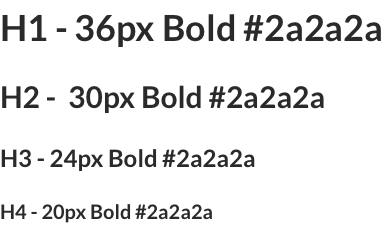
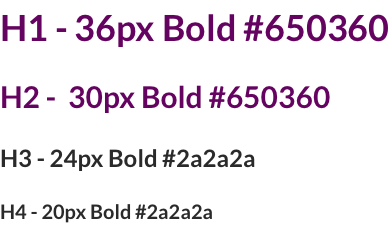
Add files via upload

diff --git a/_metronome/Typography.md b/_metronome/Typography.md
@@ -1,29 +1,24 @@
 # Typography
 
-### Changelog
-
-| Last Updated  | Description |
-| --- | :------ |
-| 08/28/18 | Rewrote page in MD format |
+> **Last Updated:**  
+> 09/10/18 — Updated heading rules, no more scaling for breakpoints  
+> 08/28/18 — Rewrote page in MD format
 
 ---
 
 In 2016 we moved from ~~Helvetica~~ to the friendlier **Lato**.
 /_img/latospecimen.png
-Lato has rounded corners and angled terminals which give it a more friendly look. The i's and j's are dotted with perfectly round circles. Very friendly. Even if you don't notice it, you feel it.
+Lato has rounded corners and angled terminals which give it a more friendly vibe. The i's and j's are dotted with perfectly round circles. Very friendly. Even if you don't notice it, you feel it.
 
 ## Type Scale
-We use a typographic scale so that the number of font sizes across the site feels consistent.
+We use a typographic scale so that the sizes across our site fall into a consolidated list of relative intervals. This way we don't have a lot of different sizes that become difficult to maintain.
 
 | Labels | Authenticated | Body | H4 | H3 | H2 | H1 |
 |:----:|:-----:|:--:|:--:|:--:|:--:|:--:|
 | 11px | 14px | 16px | 20px | 24px | 30px | 36px |
 
-On the small breakpoint, each style scales down one size where possible. 
-
-| Labels | Authenticated | Body | H4 | H3 | H2 | H1 |
-|:----:|:-----:|:--:|:--:|:--:|:--:|:--:|
-| 11px | 14px | 14px | 16px | 20px | 24px | 30px |
+**Update as of 09/10/18**  
+Typography no longer scales down on smaller breakpoints. 
 
 ## Line Height
 The default **line-height is `1.5`** for all typography.
@@ -31,14 +26,15 @@ The default **line-height is `1.5`** for all typography.
 ### Example
 /_img/line-height_example.png
 
-> __Pro Tip:__
+> __Pro Tip:__  
 > To calculate the line-height for any given font size in Sketch, just type __"1.5 * x"__ in the line height box where __"x" = your font size__
 
 ## Headings
-Headings are **`#2a2a2a`** and **`bold`**  
-Headings follow the typographic scale, and **should be nested according to a parent/child relationship** if possible.   
-Headings have a line height of `1.5`  
-Headings have **`10px` of bottom padding**
+Headings follow the typographic scale, and **should be nested according to a parent/child relationship** where possible.   
+
+All headings are bold, with a line height of 1.5 and 10px of bottom padding.
+H1 and H2 are **`#650360`**  
+H3 and H4 are **`#2a2a2a`**
 
 ### Example
 /_img/heading_example.png
@@ -50,10 +46,10 @@ Paragraphs have a line height of `1.5`
 For optimum readability, **the width of a paragraph should not exceed 8 columns**. [^for more information about column layouts, see the grid page.]
 
 ### Example
-/_img/body_example.png
+/_img/bodycopy_example.png
 
 ## Links
-Links are **16px, bold, and `#006899`** and change to `#0079b3` on hover with a 150ms linear transition.  
+Links are **16px, bold, and `#006899`** and change to **`#0079b3`** on hover with a 150ms linear transition.  
 Visited links are styled the same.  
 Links have no underline
 
@@ -77,6 +73,29 @@ Links on dark backgrounds should be the lighter color: `#C1E8FA` in order to mee
 </div>
 <div style="clear:both"></div>
 
+## Titles/Labels
+Use as a label for tables, lists, and forms.  
+A label should be `11px`, `bold`, and should use the `text-transform:uppercase` property.
+If a label flows into more than one line, it should use the standard line height of **`1.5`**, which comes out to **`16.5px`** for an 11px font size.
+
+/_img/titleheading_example.png
+
+
+**Restrictions on length**
+Labels should be **limited to 5 words or less**. 
+/_img/sentencelabel_dont.png
+> **Don't use when** you just need a font size smaller than 14px. If you need something smaller than 14px, submit this for review as an exception.
+
+## Lists
+There are various types of lists that can be used. Each one should have an indent of 20px. If 
+
+### Example
+/_img/list_example.png
+
+**Lists with Titles**
+When listing links in a navigation item, or some other list that needs a label, combine the list style with the label/title style.
+/_img/listheading_example.png 
+
 ## Price and Rate Callouts
 
 Hero banners and cards with price and rate callouts have their own unique style. There are 3 sizes to choose from, and they each have a corresponding size for their accompanying symbol:
@@ -94,8 +113,15 @@ Hero banners and cards with price and rate callouts have their own unique style.
 All symbols follow the same size guidelines, though the positioning may be different.
 /_img/dollarcallout_example.png
 
+**Rate Callout Title**
+Use the title/label style to label the Annual Percentage yield for rate callouts. 
+The stacked 3 columns should be **centered vertically** and use a line-height of **`1.5`.** [^ See guidelines for titles/labels]
+/_img/percentagelabel_example.png
 
-## A11Y
+Use a label above or below if necessary, but **limit to no more than 4 words**.[^See titles/labels for restrictions on length]
+
+
+## A11y
 **Color Contrast**  
 Large text (text that is 20px Bold or 24px Regular and larger) needs to meet a 3:1 ratio  
 Regular text (text that is under 20px Bold or 24px Regular) needs to meet a 4.5:1 ratio

diff --git a/_metronome/Buttons.md b/_metronome/Buttons.md
@@ -1,39 +1,50 @@
 # Buttons
 
-| Last Updated  | Description |
-| --- | :------ |
-| 08/28/18 | Rewrote page in MD format |
+> **Last Updated:**  
+> 08/28/18 — Rewrote page in MD format
 
 ---
 
 **Desktop** buttons have a height of `34px` with `20px` of padding on each size. They inherit the width of their contents. They have a font size of `14px`  
 
-_img/desktopbutton_example.png
+/_img/desktopbutton_example.png
   
 **Mobile** buttons have a larger height of `45px` and span the full width of their container. They also increase in font size to `16px`
 
-_img/mobilebutton_example.png
+/_img/mobilebutton_example.png
 
 
 ## Primary buttons
-Primary buttons contain the most important or critical action of a page typically complete a task. Visually, they have the most contrast against the page and should appear before secondary buttons, links or disabled buttons. Only one primary button should appear per page.
+Primary buttons should be used for the primary task of the page.  
 
 ### Example
-_img/primarybutton_example.png
+/_img/primarybutton_example.png
 
 ## Secondary buttons
 Subordinate to primary, secondary buttons have less visual contrast against the page. Secondary actions tend to be less utilized and are often counter to the primary button action (e.g. declining or abandoning a process).
 
-_img/secondarybutton_example.png
-
-## Disabled buttons
-Disabled buttons are non-interactive and indicate a button is unusable. Disabled buttons are not required to be contrast complainant since they are not functional elements.
+/_img/secondarybutton_example.png
 
 ## Log In button
 Used exclusively in login widgets, pages or modals to submit user credentials. When located in the masthead, the “Log In” button can also expand or navigate a user to a standalone page. Once in an authenticated space, users may be presented with a “Log Out” button in the same style. Note teal color restrictions
 
+/_img/loginbutton_example.png
+
 ## Outlined buttons
 Used as a call to action (CTA) or as alternate to a primary button when one is already in use.
 
+/_img/outlinedbutton_example.png
+
 ## Destructive buttons
 Used to indicate an action may cause permanent destructive behavior such as deleting information.
+
+/_img/destructivebutton_example.png
+
+## Buttons on dark backgrounds
+
+/_img/buttonondark_example.png
+
+## A11y
+Disabled buttons are not required to be contrast complainant since they are not functional elements.
+
+Link text should clearly explain the destination or purpose of the link to accommodate screen reader users. Avoid ambiguous link text like “read more”.

diff --git a/_metronome/Tables.md b/_metronome/Tables.md
@@ -1,0 +1,4 @@
+# Tables
+
+> **Notes:**  
+> What do we show if there's no data for a column (N/A vs. nothing shown)

diff --git a/_metronome/Forms.md b/_metronome/Forms.md
@@ -1,0 +1,4 @@
+# Forms
+
+> **Notes:**  
+> Define how entered data is displayed on a confirmation page
